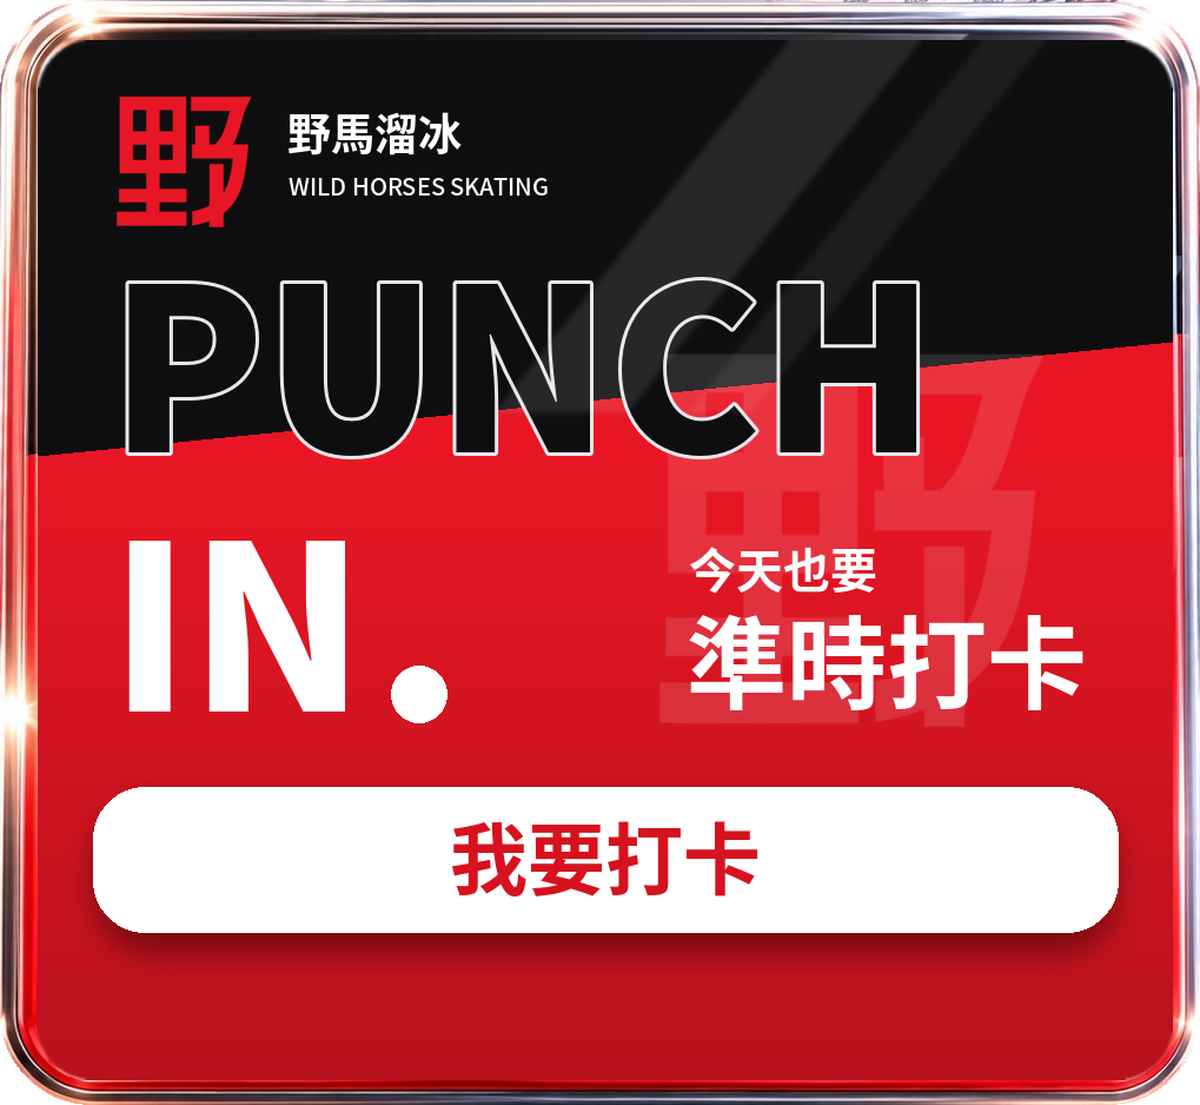
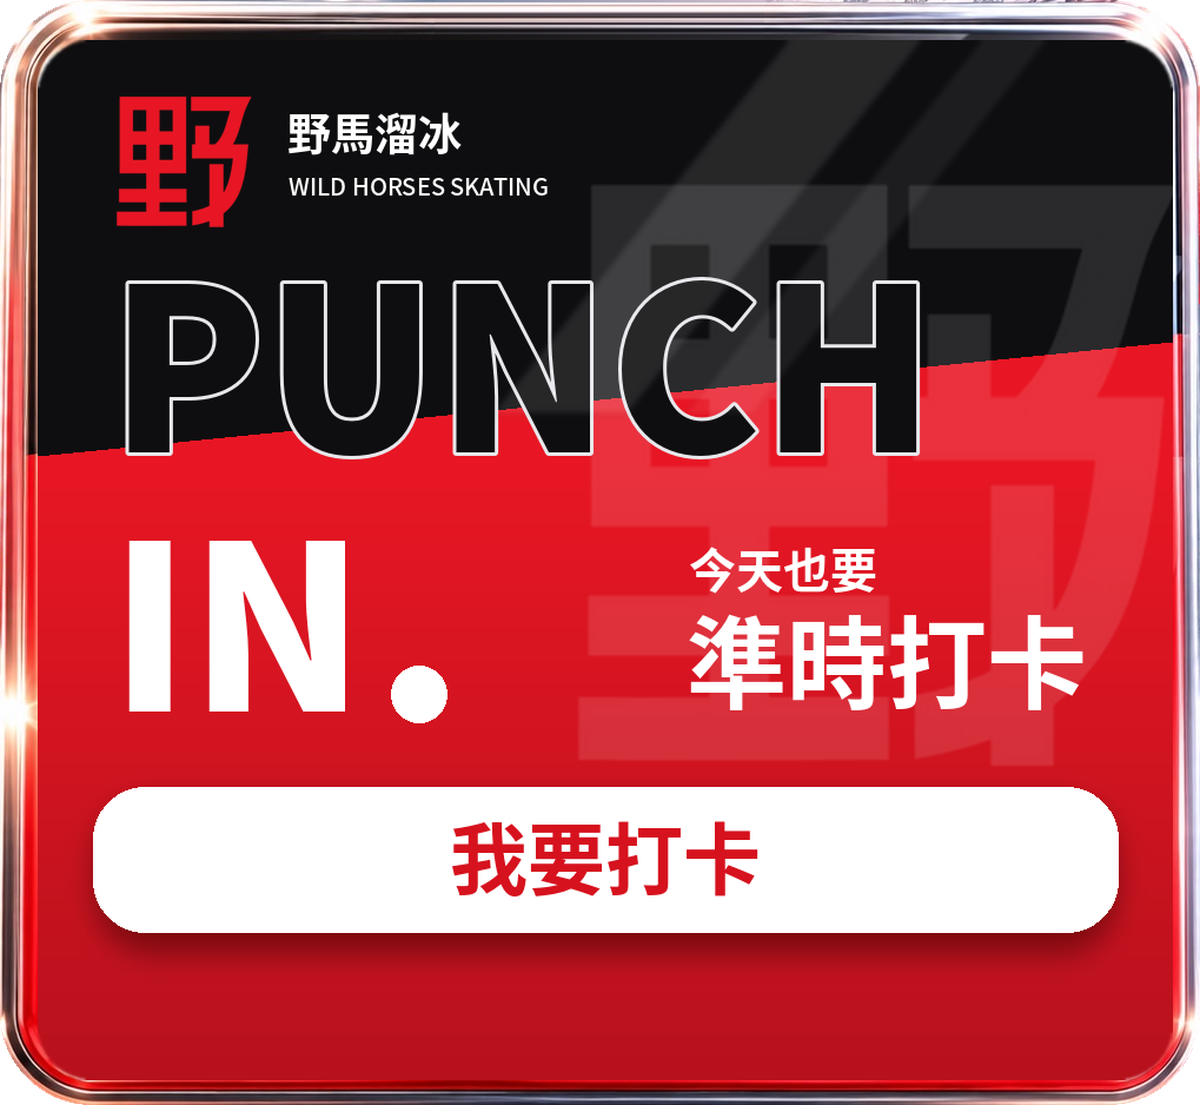
分享吊牌：浮水印野字放大到原圖大小
Claude-Session: https://claude.ai/code/session_01SgUoPMs89Ch7rWoMucrYnN

Changed region(s): [[0.4625, 0.1538, 0.9867, 0.7077]]

diff --git a/app.js b/app.js
@@ -6,7 +6,7 @@ import {
   initializeFirestore, doc, getDoc, setDoc as _setDoc, updateDoc as _updateDoc, deleteDoc as _deleteDoc, addDoc as _addDoc,
   collection, query, where, getDocs, serverTimestamp, writeBatch as _writeBatch, deleteField, arrayUnion, arrayRemove
 } from "https://www.gstatic.com/firebasejs/10.12.2/firebase-firestore.js";
-import { firebaseConfig, LIFF_ID, WORKER_URL } from "./config.js?v=85";
+import { firebaseConfig, LIFF_ID, WORKER_URL } from "./config.js?v=86";
 
 /* 整個月的大量查詢（報表、薪資、排班）暫存 3 分鐘，省 Firestore 讀取額度；任何寫入都會清掉暫存 */
 const MEMO = new Map();
@@ -865,7 +865,7 @@ $("#sharePunchBtn").onclick = async () => {
   const flex = { type: "flex", altText: "今天也要準時打卡｜野馬溜冰打卡系統", contents: {
     type: "bubble",
     styles: { hero: { backgroundColor: "#00000000" } },
-    hero: { type: "image", url: "https://wild-horses-skating.pages.dev/share-card.png?v=15", size: "full", aspectRatio: "1200:1105", aspectMode: "fit", action: { type: "uri", label: "我要打卡", uri: PUNCH_URL } } } };
+    hero: { type: "image", url: "https://wild-horses-skating.pages.dev/share-card.png?v=16", size: "full", aspectRatio: "1200:1105", aspectMode: "fit", action: { type: "uri", label: "我要打卡", uri: PUNCH_URL } } } };
   if (me?.role !== "admin") return;
   const ok = await getLiff();
   if (!ok || !liff.isInClient?.()) return appAlert("請在 LINE 裡打開", "圖文卡片只能在 LINE 裡分享，請從 LINE 官方帳號的選單打開打卡系統再按一次。");

diff --git a/index.html b/index.html
@@ -16,7 +16,7 @@
   <title>野馬溜冰打卡系統</title>
   <meta property="og:title" content="野馬溜冰打卡系統">
   <meta property="og:description" content="點這裡上班・下班打卡">
-  <meta property="og:image" content="https://wild-horses-skating.pages.dev/share-card.png?v=15">
+  <meta property="og:image" content="https://wild-horses-skating.pages.dev/share-card.png?v=16">
   <meta property="og:url" content="https://liff.line.me/2012318362-VOU7aFr9?view=clock">
   <meta name="twitter:card" content="summary_large_image">
   <link rel="preconnect" href="https://www.gstatic.com" crossorigin>
@@ -26,7 +26,7 @@
   <link rel="modulepreload" href="https://www.gstatic.com/firebasejs/10.12.2/firebase-app.js">
   <link rel="modulepreload" href="https://www.gstatic.com/firebasejs/10.12.2/firebase-auth.js">
   <link rel="modulepreload" href="https://www.gstatic.com/firebasejs/10.12.2/firebase-firestore.js">
-  <link rel="stylesheet" href="style.css?v=85">
+  <link rel="stylesheet" href="style.css?v=86">
 </head>
 <body>
 
@@ -787,6 +787,6 @@
     }
   }, 25000);
 </script>
-<script type="module" src="app.js?v=85"></script>
+<script type="module" src="app.js?v=86"></script>
 </body>
 </html>
